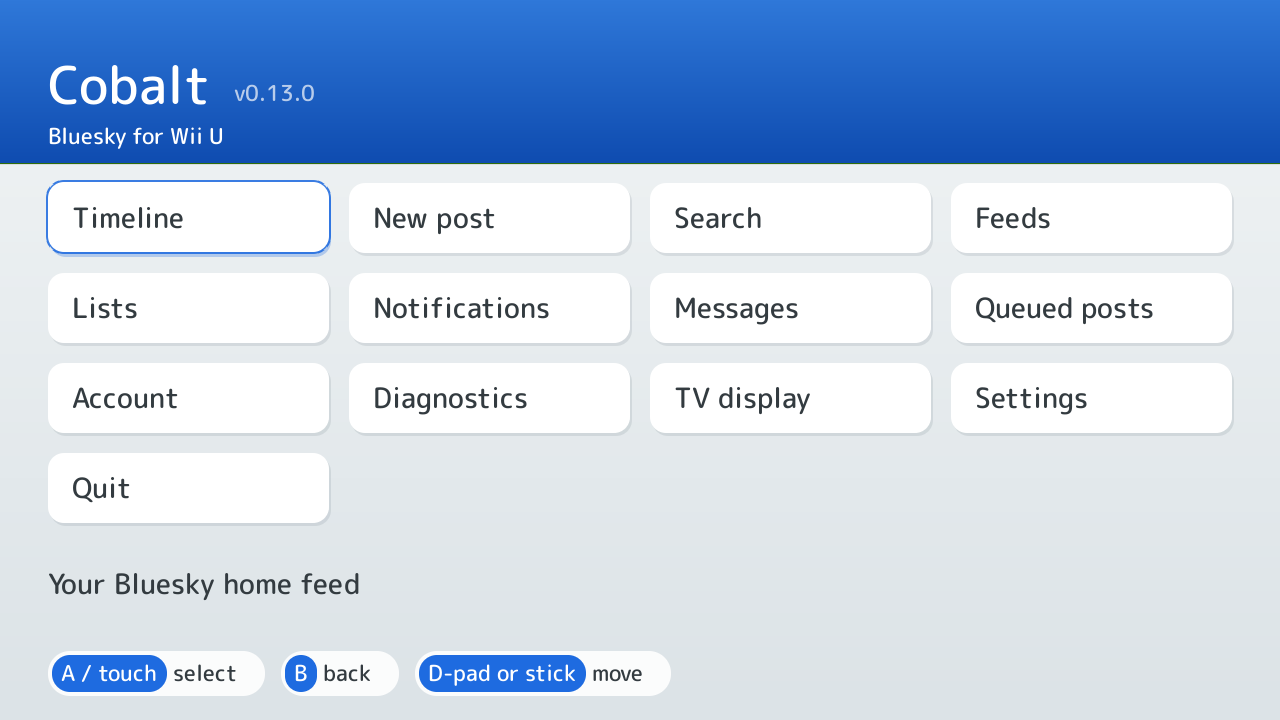
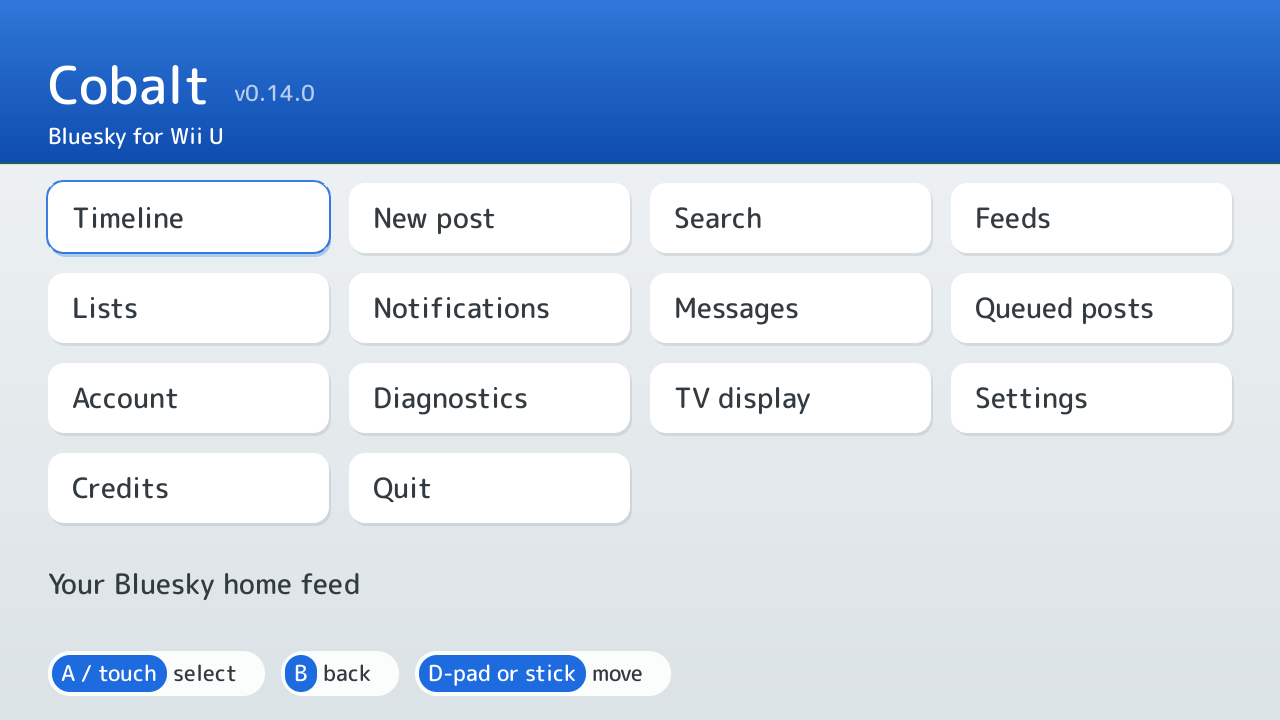
feat(ui): add a Credits screen for the stack's repositories
Put the five repository addresses on one readable page, reached from the
home menu, so they can be typed on a machine that can browse. The screen is
passive: B or the Back pill leaves it, and nothing is fetched or saved.

🤖 Generated with [Claude Code](https://claude.com/claude-code)

Changed region(s): [[0.25, 0.6111, 0.5, 0.7333], [0.0625, 0.6722, 0.125, 0.7028], [0.2188, 0.1222, 0.25, 0.1528]]

diff --git a/src/app/credits_view.c b/src/app/credits_view.c
@@ -1,0 +1,92 @@
+#include "app/credits_view.h"
+
+#include "app/app_internal.h"
+
+#include <stddef.h>
+
+/*
+ * The stack in reading order: the two console clients, the SDK they share, the
+ * Mac client and the Wii client that came before Cobalt. The URLs are the
+ * canonical repositories, not release or documentation pages, because those
+ * move and a repository is what someone would clone.
+ */
+static const cobalt_credit_repo REPOS[] = {
+   { "Cobalt",       "https://github.com/ewanc26/cobalt" },
+   { "Indigo",       "https://github.com/ewanc26/indigo" },
+   { "Wolfram",      "https://github.com/ewanc26/wolfram" },
+   { "Platinum",     "https://github.com/ewanc26/platinum" },
+   { "Channel Blue", "https://github.com/ewanc26/channel-blue" },
+};
+
+int
+cobalt_credits_repo_count(void)
+{
+   return (int) (sizeof(REPOS) / sizeof(REPOS[0]));
+}
+
+const cobalt_credit_repo *
+cobalt_credits_repo(int index)
+{
+   if (index < 0 || index >= cobalt_credits_repo_count()) {
+      return NULL;
+   }
+   return &REPOS[index];
+}
+
+void
+cobalt_credits_view_draw(cobalt_render *r)
+{
+   if (!r) {
+      return;
+   }
+
+   const cobalt_metrics *m = cobalt_render_metrics(r);
+   const int width = m->width - 2 * m->pad_edge;
+   const int body_h = cobalt_font_line_height(r, COBALT_FONT_BODY);
+   const int caption_h = cobalt_font_line_height(r, COBALT_FONT_CAPTION);
+   const int pad = m->pad_tile / 2;
+
+   cobalt_app_draw_header(r, "Credits");
+
+   int y = cobalt_content_top(r);
+   y += cobalt_draw_text_wrapped(
+      r, COBALT_FONT_CAPTION,
+      "Cobalt, Indigo, Platinum and Channel Blue are separate clients over one "
+      "C AT Protocol SDK. The full repository address is printed for each, so "
+      "it can be read from the screen and typed on another machine.",
+      m->pad_edge, y, width, 3, COBALT_COLOUR_TEXT_DIM);
+   y += m->gap * 2;
+
+   const int count = cobalt_credits_repo_count();
+   for (int i = 0; i < count; i++) {
+      const cobalt_credit_repo *repo = cobalt_credits_repo(i);
+      int name_w = 0;
+      int url_w = 0;
+
+      cobalt_text_size(r, COBALT_FONT_BODY, repo->name, &name_w, NULL);
+      cobalt_text_size(r, COBALT_FONT_CAPTION, repo->url, &url_w, NULL);
+
+      const int inner_w = width - 2 * pad;
+      const bool same_line = name_w + m->gap + url_w <= inner_w;
+      const int row_h = same_line ? body_h + 2 * pad
+                                  : body_h + caption_h + 2 * pad;
+
+      SDL_Rect row = { m->pad_edge, y, width, row_h };
+
+      cobalt_draw_tile(r, &row, 0.0f);
+      cobalt_draw_text(r, COBALT_FONT_BODY, repo->name,
+                       row.x + pad, row.y + pad, COBALT_COLOUR_TEXT);
+      if (same_line) {
+         cobalt_draw_text(r, COBALT_FONT_CAPTION, repo->url,
+                          row.x + row.w - pad - url_w,
+                          row.y + pad + (body_h - caption_h) / 2,
+                          COBALT_COLOUR_ACCENT_TEXT);
+      } else {
+         cobalt_draw_text(r, COBALT_FONT_CAPTION, repo->url,
+                          row.x + pad, row.y + pad + body_h,
+                          COBALT_COLOUR_ACCENT_TEXT);
+      }
+
+      y += row_h + m->gap / 2;
+   }
+}

diff --git a/tests/snapshot_main.c b/tests/snapshot_main.c
@@ -380,7 +380,7 @@ drag_to(int x, int from, int to)
 
 /* Home selection is linear and wraps; the app remembers it across screens.
  * Must match COBALT_HOME_MENU_COUNT in app/app_internal.h. */
-#define HOME_MENU_COUNT 13
+#define HOME_MENU_COUNT 14
 
 static void
 open_home_item(int idx)
@@ -1172,7 +1172,7 @@ main(int argc, char **argv)
     * 9, and the two lists, feeds 3 and lists 4. Compose and search are left
     * out on purpose: B types there, so they have no pill. */
    {
-      static const int items[] = {0, 3, 4, 5, 6, 8, 9};
+      static const int items[] = {0, 3, 4, 5, 6, 8, 9, 12};
       for (size_t k = 0; k < sizeof items / sizeof items[0]; k++) {
          open_home_item(items[k]);
          settle(20);
@@ -1254,7 +1254,7 @@ main(int argc, char **argv)
       }
    }
 
-   /* The GamePad's Home list is thirteen rows at six visible, so the bottom
+   /* The GamePad's Home list is fourteen rows at six visible, so the bottom
     * half is only reachable by dragging: it moves a row per 44-pixel row of
     * travel. */
    {
@@ -1451,6 +1451,24 @@ main(int argc, char **argv)
       /* The toggles save to the working directory under the host stub; do not
        * leave that file behind for the next snapshot run. */
       remove("settings.dat");
+   }
+
+   /* Credits prints the full repository addresses rather than hiding them
+    * behind buttons a console cannot open. The screen is passive: B or the
+    * Back pill leaves it. */
+   {
+      open_home_item(12); /* credits */
+      settle(4);
+      CHECK(cobalt_app_screen(g_app) == COBALT_SCREEN_CREDITS);
+      CHECK(cobalt_credits_repo_count() == 5);
+      CHECK(strcmp(cobalt_credits_repo(0)->url,
+                   "https://github.com/ewanc26/cobalt") == 0);
+      CHECK(strcmp(cobalt_credits_repo(4)->url,
+                   "https://github.com/ewanc26/channel-blue") == 0);
+      shoot("credits");
+      frame(COBALT_BTN_BACK);
+      settle(4);
+      CHECK(cobalt_app_screen(g_app) == COBALT_SCREEN_HOME);
    }
 
    /* High contrast is a whole-palette state, so it is checked on the surfaces

diff --git a/src/app/app_home.c b/src/app/app_home.c
@@ -15,6 +15,7 @@ typedef enum {
    ACTION_DIAGNOSTICS,
    ACTION_TOGGLE_DISPLAY,
    ACTION_SETTINGS,
+   ACTION_CREDITS,
    ACTION_QUIT,
 } menu_action;
 
@@ -37,6 +38,7 @@ static const menu_action MENU[] = {
    ACTION_DIAGNOSTICS,
    ACTION_TOGGLE_DISPLAY,
    ACTION_SETTINGS,
+   ACTION_CREDITS,
    ACTION_QUIT,
 };
 
@@ -132,6 +134,7 @@ menu_label(int index)
       case ACTION_DIAGNOSTICS:    return "Diagnostics";
       case ACTION_TOGGLE_DISPLAY: return "TV display";
       case ACTION_SETTINGS:       return "Settings";
+      case ACTION_CREDITS:        return "Credits";
       case ACTION_QUIT:           return "Quit";
       default:                    return "";
    }
@@ -172,6 +175,8 @@ menu_hint(int index)
          return "Switch between TV+GamePad and Off-TV";
       case ACTION_SETTINGS:
          return "Theme, post text size and contrast";
+      case ACTION_CREDITS:
+         return "The repositories behind the stack";
       case ACTION_QUIT:
          return "Return to the Wii U Menu";
       default:
@@ -300,6 +305,11 @@ activate(cobalt_app *app, int index)
          app->settings_selected = 0;
          app->screen = COBALT_SCREEN_SETTINGS;
          COBALT_LOGI("menu: opened settings");
+         break;
+
+      case ACTION_CREDITS:
+         app->screen = COBALT_SCREEN_CREDITS;
+         COBALT_LOGI("menu: opened credits");
          break;
 
       case ACTION_QUIT:
@@ -473,7 +483,7 @@ cobalt_app_draw_home_tv(cobalt_app *app, cobalt_render *r)
    const int rows = (MENU_COUNT + cols - 1) / cols;
    const int top = cobalt_content_top(r);
    const int tile_w = (m->width - 2 * m->pad_edge - m->gap * (cols - 1)) / cols;
-   /* 13 entries need a fourth row. Keep the tiles inside the content area by
+   /* 14 entries need a fourth row. Keep the tiles inside the content area by
     * shrinking them to the room that is actually left, rather than letting the
     * detail strip and footer run off the screen. Three rows still get the full
     * 110, so the signed-out menu looks exactly as it did. */

diff --git a/src/app/credits_view.h b/src/app/credits_view.h
@@ -1,0 +1,33 @@
+#pragma once
+
+/*
+ * The Credits screen: every repository in the Cobalt/Indigo/Platinum stack,
+ * with the full address printed rather than hidden behind a button. A console
+ * cannot open a browser, so a link is only useful here if it can be read and
+ * typed on another machine; there is nothing to press.
+ *
+ * Kept apart from the home menu and Settings because it is a screen of its own,
+ * and apart from the session because it never fetches anything.
+ */
+
+#include "ui/render.h"
+
+#ifdef __cplusplus
+extern "C" {
+#endif
+
+typedef struct {
+   const char *name;
+   const char *url;
+} cobalt_credit_repo;
+
+/* The stack's repositories in reading order. The list is static and complete:
+ * a missing entry is a build error in the host tests, not a runtime fallback. */
+int cobalt_credits_repo_count(void);
+const cobalt_credit_repo *cobalt_credits_repo(int index);
+
+void cobalt_credits_view_draw(cobalt_render *r);
+
+#ifdef __cplusplus
+}
+#endif

diff --git a/src/app/app.c b/src/app/app.c
@@ -1010,6 +1010,12 @@ app_update_inner(cobalt_app *app, const cobalt_input *in, uint32_t now_ms)
          cobalt_settings_view_update(app, in);
          break;
 
+      case COBALT_SCREEN_CREDITS:
+         if (cobalt_input_pressed(in, COBALT_BTN_BACK)) {
+            app->screen = COBALT_SCREEN_HOME;
+         }
+         break;
+
       case COBALT_SCREEN_FEEDS:
          cobalt_app_update_feeds(app, in);
          break;
@@ -1285,6 +1291,10 @@ cobalt_app_draw(cobalt_app *app, cobalt_render *r, cobalt_surface_id surface)
 
       case COBALT_SCREEN_SETTINGS:
          cobalt_settings_view_draw(app, r, surface);
+         break;
+
+      case COBALT_SCREEN_CREDITS:
+         cobalt_credits_view_draw(r);
          break;
 
       case COBALT_SCREEN_FEEDS:

diff --git a/src/app/app_internal.h b/src/app/app_internal.h
@@ -16,6 +16,7 @@
 #include "app/queue_view.h"
 #include "app/app.h"
 #include "app/compose.h"
+#include "app/credits_view.h"
 #include "app/entropyview.h"
 #include "app/graph.h"
 #include "app/lists.h"
@@ -46,7 +47,7 @@
 #include <string.h>
 
 /* Entries on the home menu; app_home.c checks its table against this. */
-#define COBALT_HOME_MENU_COUNT 13
+#define COBALT_HOME_MENU_COUNT 14
 /* How deep a chain of thread and profile screens can nest before the oldest
  * return is dropped. */
 #define COBALT_RETURN_DEPTH 16

diff --git a/tools/make-guide-images.py b/tools/make-guide-images.py
@@ -36,6 +36,7 @@ FRAMES = {
     "feeds": "feeds-tv",
     "profile": "profile-tv",
     "settings": "settings-light-tv",
+    "credits": "credits-tv",
     # GamePad frames (854x480), for the guide's explanation of the split.
     "gamepad-home": "home-signedin-drc",
     "gamepad-compose": "compose-newline-drc",

diff --git a/src/app/app.h b/src/app/app.h
@@ -43,6 +43,7 @@ typedef enum {
    COBALT_SCREEN_CHAT_THREAD,
    COBALT_SCREEN_QUEUE,
    COBALT_SCREEN_SETTINGS,
+   COBALT_SCREEN_CREDITS,
 } cobalt_screen;
 
 /*

diff --git a/AGENTS.md b/AGENTS.md
@@ -484,7 +484,11 @@ Both were bugs before they were rules, and both are now single tested functions 
 
 `ui/theme.c` owns the palette as mutable `SDL_Color` globals. `cobalt_theme_apply()` swaps every role between the light Wii U look and a dark one; `cobalt_theme_set_high_contrast()` overlays a third palette with a black ground, white text and brighter accents, and takes precedence over the theme. `cobalt_theme_current()` says which theme is selected and `cobalt_theme_high_contrast()` whether the override is on. Drawing code already went through those globals, so a screen needs no theme parameter. Surfaces that used to hard-code white (the control-prompt pill, the popup paper) were the audit's real finding: they are now `COBALT_COLOUR_PILL` and `COBALT_COLOUR_TILE`, and a colour that sits over a photograph stays deliberately fixed. Page titles use `COBALT_COLOUR_HEADER_TEXT`, not `COBALT_COLOUR_TILE`: the band stays dark in every palette, while the tile role is the card surface and turns nearly black in dark and high-contrast modes.
 
-`cobalt_app_create()` loads `settings.dat` and applies the theme, contrast and post-text scale before the first frame, so a dark-theme console never flashes light. The Settings screen (`ACTION_SETTINGS`, `COBALT_SCREEN_SETTINGS`) lives in its own `app/settings_view.c`/`.h`, separate from the home menu in `app_home.c`. It has four rows: Theme, Text scale, High contrast and Reset to defaults. Up/Down move, A or a tap changes the row, each change applies immediately, and the file is written atomically through `app/settings_store.c`; a failed save is reported on the screen but does not undo the change. Reset restores light, normal post text and contrast off in one action and saves that state. Text scale uses percentages (100/115/130) because the two surfaces have different body sizes; NORMAL is the size the cards already used. It reaches only `COBALT_FONT_POST`, so `cobalt_render_set_text_scale()` reopens that one face and drops the text and wrap caches — they are keyed by font id, not by the face's point size, so leaving them would keep the old glyphs and line breaks. The renderer bakes the background gradient and header band from the palette, so every palette change bumps a generation counter and `cobalt_render_begin()` rebuilds both textures when it changes; without that, the text and tiles would switch and the background would not. `COBALT_HOME_MENU_COUNT` is 13, and the TV grid shrinks its tiles to fit the fourth row rather than running the detail strip off the screen. The file is versioned, unknown keys are skipped and missing keys take their defaults, so a newer Cobalt's settings still load what this build understands and an older file gains the new rows without losing its theme.
+`cobalt_app_create()` loads `settings.dat` and applies the theme, contrast and post-text scale before the first frame, so a dark-theme console never flashes light. The Settings screen (`ACTION_SETTINGS`, `COBALT_SCREEN_SETTINGS`) lives in its own `app/settings_view.c`/`.h`, separate from the home menu in `app_home.c`. It has four rows: Theme, Text scale, High contrast and Reset to defaults. Up/Down move, A or a tap changes the row, each change applies immediately, and the file is written atomically through `app/settings_store.c`; a failed save is reported on the screen but does not undo the change. Reset restores light, normal post text and contrast off in one action and saves that state. Text scale uses percentages (100/115/130) because the two surfaces have different body sizes; NORMAL is the size the cards already used. It reaches only `COBALT_FONT_POST`, so `cobalt_render_set_text_scale()` reopens that one face and drops the text and wrap caches — they are keyed by font id, not by the face's point size, so leaving them would keep the old glyphs and line breaks. The renderer bakes the background gradient and header band from the palette, so every palette change bumps a generation counter and `cobalt_render_begin()` rebuilds both textures when it changes; without that, the text and tiles would switch and the background would not. `COBALT_HOME_MENU_COUNT` is 14, and the TV grid shrinks its tiles to fit the fourth row rather than running the detail strip off the screen. The file is versioned, unknown keys are skipped and missing keys take their defaults, so a newer Cobalt's settings still load what this build understands and an older file gains the new rows without losing its theme.
+
+### Credits is a printed list, not a set of links
+
+`ACTION_CREDITS` opens `COBALT_SCREEN_CREDITS`, drawn by `src/app/credits_view.c`. Its five rows are the stack's repositories (Cobalt, Indigo, Wolfram, Platinum and Channel Blue), each with the full `https://github.com/ewanc26/...` address. There is no URL opener and no QR code here on purpose: the console cannot browse, and the useful thing is the address itself, readable at couch distance and typeable elsewhere. The screen holds no state, fetches nothing and saves nothing; B or the header's Back pill leaves it. `COBALT_HOME_MENU_COUNT` includes the entry, so the home menu and its TV grid grew by one row.
 
 ### Avatars are fetched, decoded and scaled off the frame loop — textures are not
 

diff --git a/docs/PARITY.md b/docs/PARITY.md
@@ -30,6 +30,7 @@ OAuth on a console is not the AT Protocol browser flow running on the console. T
 | Feature | Cobalt | Indigo | Platinum | Evidence |
 |---|---|---|---|---|
 | Diagnostics | implemented | implemented | issue platinum#37 | Cobalt: `ACTION_DIAGNOSTICS` in `src/app/app_home.c` |
+| Credits screen | implemented | implemented | n/a | Both list Cobalt, Indigo, Wolfram, Platinum and Channel Blue with the full `https://github.com/ewanc26/...` address, because neither console can open a browser. Cobalt: `src/app/credits_view.c`, reached from the home menu; a snapshot case checks the screen and B. Indigo: `src/app/credits.c` and the More menu; host tests check both displays and the return path. |
 | Settings screen | implemented: theme, post text scale, high contrast and reset | implemented: theme, text scale, high contrast, alt text, diagnostics and startup feed | issue platinum#42 | Cobalt: four rows, reached from the home menu, each saved immediately; `src/app/settings_view.c` owns the screen and `src/app/settings_store.c` the file. Indigo: eight rows, reached from More; reduce motion is stored but reserved because Indigo draws no animation. |
 | Light/dark theme | implemented | implemented | issue platinum#42 | Cobalt: Settings, `cobalt_theme_apply()` in `src/ui/theme.c`; the choice is persisted in `settings.dat` by `src/app/settings_store.c` and host-tested for the codec, the palette and the toggle. The renderer rebuilds its baked background and header band when the theme generation changes, so a switch is visible without restarting. Indigo: Settings > Theme, every layout surface follows the palette; a legacy Auto value loads as Dark. Defaults are platform-native: Light on the Wii U, Dark on the 3DS. |
 | Text scale | implemented | implemented | issue platinum#42 | Cobalt: 100/115/130% applies to post text only, through a separate `COBALT_FONT_POST` face reopened by `cobalt_render_set_text_scale()`; the renderer drops its text and wrap caches so both the glyphs and line breaks change on the next frame. NORMAL is the size cards already used, so an untouched install is unchanged. Indigo scales the post body against its 0.6 default. |

diff --git a/docs/guide.md b/docs/guide.md
@@ -31,7 +31,7 @@ The footer names the buttons that work on the current screen. A prompt that name
 
 ![Home](screenshots/home-signedin.png)
 
-Timeline, New post, Search, Feeds, Lists, Notifications, Messages, Queued posts, Account (or Sign in), Diagnostics, TV display, Settings and Quit. Timeline, New post, Search, Feeds, Lists, Notifications and Messages need you signed in; Queued posts and the rest do not.
+Timeline, New post, Search, Feeds, Lists, Notifications, Messages, Queued posts, Account (or Sign in), Diagnostics, TV display, Settings, Credits and Quit. Timeline, New post, Search, Feeds, Lists, Notifications and Messages need you signed in; Queued posts and the rest do not.
 
 TV display switches between TV plus GamePad and Off-TV Play, where the TV goes idle and everything happens on the GamePad.
 
@@ -137,6 +137,12 @@ Muted accounts and Blocked accounts (A on one undoes it), the post language sett
 Theme switches between Light, the Wii U menu's grey-white look, and Dark. Text scale sets post text to 100%, 115% (the default) or 130% without changing labels or buttons. High contrast uses a black ground, white text and brighter accents, and takes precedence over the theme. Reset to defaults puts all three back to Light, 115% and contrast off.
 
 Up and Down choose a row; A or a tap changes it. Every change applies immediately on both screens and is saved to the SD card, so it survives closing Cobalt. B goes back to the home menu. A failed save is reported under the rows and the setting still changes for this run.
+
+## Credits
+
+![Credits](screenshots/credits.png)
+
+Credits lists the repositories behind the stack: Cobalt, Indigo, the Wolfram SDK both console clients use, Platinum, and Channel Blue. Each address is printed in full instead of being a button, because a console cannot open a browser; read it here and type it on a machine that can. B or the Back pill returns to the home menu.
 
 ## Updates
 

diff --git a/CHANGELOG.md b/CHANGELOG.md
@@ -9,6 +9,7 @@ the GitHub release notes, so keep the `## [x.y.z] - date` headings exact.
 
 ### Added
 
+- A Credits screen, reached from the home menu, lists the repositories behind the stack: Cobalt, Indigo, Wolfram, Platinum and Channel Blue. Each `https://github.com/ewanc26/...` address is printed in full and the screen is passive, because the console cannot open a browser; B or the Back pill leaves it. The home menu gained a fourteenth entry.
 - A link whose external view carries `associatedRefs` is hydrated through the public AppView into the card its record describes: an article with its publication and reading time, a gallery with up to four pictures, or a livestream marked live or ended. The request runs once, only when the card is first drawn, and is cached for the session; a link without a usable record, or a failed request, keeps the plain card. ([#102](https://github.com/ewanc26/cobalt/issues/102))
 
 ## [0.14.0] - 2026-10-28
